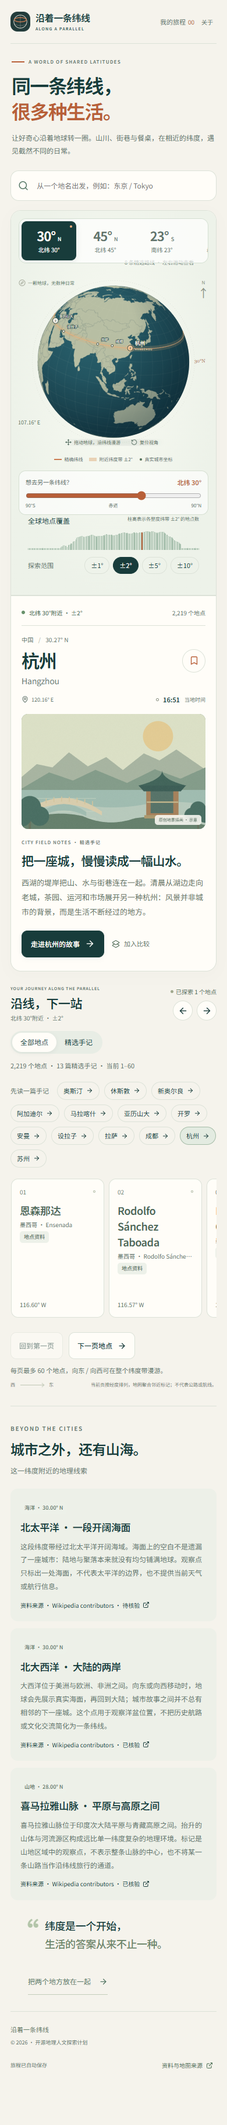
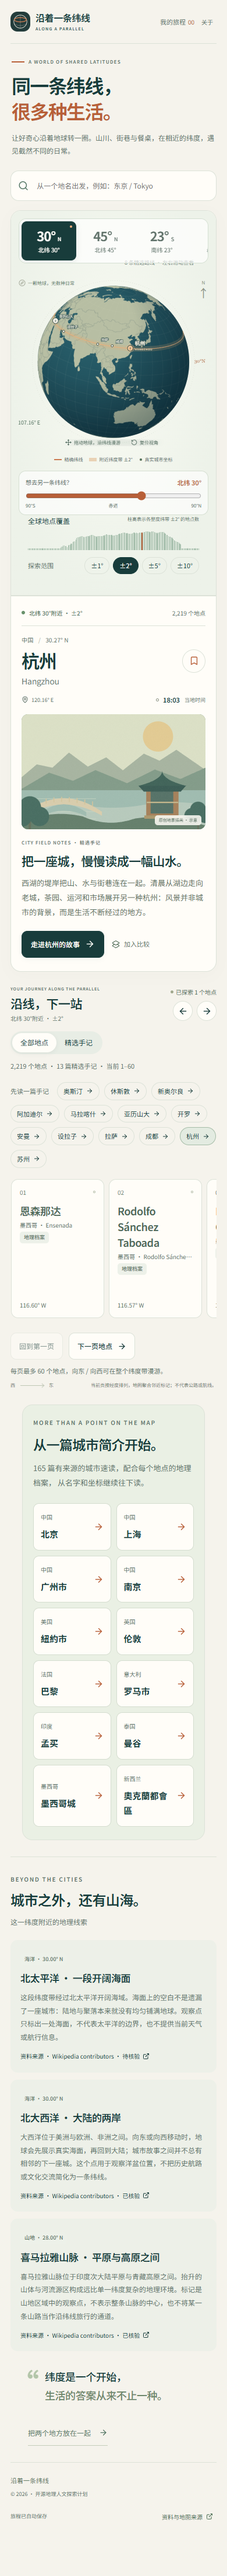
Document V2.1 release verification and refresh live screenshots

diff --git a/docs/VERIFICATION.md b/docs/VERIFICATION.md
@@ -1,5 +1,30 @@
 # 验证记录
 
+## V2.1 线上发布（2026-11-13）
+
+已将源码提交 `2db298134941741b50c0b67f44c880d14f2a700a` 部署到原 [公开试用站](https://parallel-6a30a9330b.sealoshzh.site/)，本轮线上验收通过。后续文档与截图提交独立保留，运行镜像仍固定到此源码版本。
+
+- [Checks 43404464901](https://github.com/Sep1stZ/along-a-parallel/actions/runs/43404464901) 成功：33 项测试与 21 项浏览器测试通过；本地 TypeScript、ESLint、全项目 Prettier 和 Next.js 生产构建也通过。本地生产服务在 Node 堆 160 MiB 下另跑完整浏览器测试，21/21 通过（1.6 分钟）。
+- [Container 43404464836](https://github.com/Sep1stZ/along-a-parallel/actions/runs/43404464836) 成功：生产镜像构建、资源受限容器验证及发布完成。实际按 0.2 CPU、256 MiB 内存、Node 堆 160 MiB 运行，初次导入峰值 **178.2 MiB**，重启峰值 **117.6 MiB**，替换后峰值 **117.1 MiB**，未发生 OOM。
+- 已匿名核验固定镜像 `ghcr.io/sep1stz/along-a-parallel@sha256:890ed23ebba13e588dfd1665ee1167eaa85599c8f14579f5a5f28dfda3dd98d0`：Linux amd64、非 root `node` 用户，11 个数据层 HEAD 均返回 200。
+- 部署沿用同一 StatefulSet 与原 PVC，没有改用新数据库卷。部署后实例 **Ready=true、重启计数 0**；旧 V2 测试所有者的收藏、私人旅程和已撤销分享的 410 状态均保留。
+- 发布前已取得包含 WAL 已提交状态的 SQLite 一致性备份，完整性检查为 `ok`。私人备份仅在受控本地保存，不随仓库、源码包或镜像发布。
+- 线上 API 与持久化 **36 项检查通过**：HTTPS、字体哈希、全部地理档案与速读数量、真实正文与固定修订许可、分页、会话隔离、同源防护、冻结快照和撤销 410。新分享保留完整速读及地理档案；再次真实替换 V2.1 实例后，收藏、私人旅程和冻结快照相同，所有者仍能撤销分享，原 PVC 不变，最终实例 Ready、重启计数 0。
+
+- 对公开 HTTPS 站完整运行生产浏览器测试，**21/21 通过（3.7 分钟）**。阻止所有第三方网络请求，覆盖原有 60 城的手机阅读、新速读与附近地点跳转、基础城市比较、二维拖动松手稳定、取消恢复，以及收藏、导入导出、分享和失败重试。
+- 生产更新前后的一致性备份逐行对照通过：119 个旧会话、15 条收藏、8 份旧分享原 JSON、298 条探索和 73 份私人旅程均保留，本轮未发现这些旧记录的较新修改。更新后数据库完整性与外键检查通过；私人备份与访问凭据不随交付发布。
+- 实际线上截图已更新：[桌面](screenshots/desktop.png)、[手机](screenshots/mobile.png)、[城市速读](screenshots/city-reader.png)、[手机地理档案](screenshots/mobile-profile.png)、[基础城市比较](screenshots/comparison.png)。1440/1024/390px 均无横向溢出、本地字体实际加载，额外验证分享展开后有完整速读与许可链接，页面错误为 0。
+
+本轮保留 34,214 个地点、60 座精选城市、240 篇四主题原创手记、8 条路线与 30 条自然观察。全部地点增加地理档案、三个真实近邻与三个精选阅读入口；新增 **165 篇、330 段**中文城市速读，覆盖 **57 个国家/地区代码**。165 篇与 60 座精选有重叠，不能相加作为不同城市数。
+
+165 篇已逐项核对实际取得的来源标题、固定修订和原始响应 SHA-256；不带原始缓存的隔离重建与发表 JSON 逐字节一致。全部地点的地理档案、近邻及精选入口通过检查；跨 180° 经线、极区与随机全球位置的球面 KD 树结果与全量距离计算交叉验证通过。百科导言及其改编独立采用 **CC BY-SA 4.0**，地理数据继续为 **CC BY 4.0**，不改授项目 MIT。旧城市 19 项来源、自然观察 6 项来源仍保留待核验标记，百科本身的全部引文也未被逐项独立复核。详见 [内容边界](CITY-ARTICLES.md)。
+
+地球改为 Canvas 底图、SVG 交互标记及 `requestAnimationFrame` 合并拖动绘制。在相同本地生产场景、4 倍 CPU 限速下各测三轮，帧间隔 p95 的中位数由 **62.5 ms 降至 41.6 ms，降低约 33%**。该指标是主线程动画帧机会的间隔，不是屏幕实际出光延迟或物理 FPS，不能推断所有设备均达到 60 FPS。实测范围与原始证据见 [性能记录](PERFORMANCE.md)。
+
+当前本地字体为 3,447 个 Unicode 映射、837,616 字节；67 项本地素材的来源、独立许可、大小与 SHA-256 已核验。运行时仍不依赖外部字体或数据 CDN。试用资源、余额、临时域名与网络可达性边界沿用下方说明，未购买或升级规格。
+
+以下保留 V2 与 V1 历史验证，不将其测试数量或通过结果计入本轮线上最终验收。
+
 ## V2 线上发布（2026-11-11）
 
 已更新 [公开试用站](https://parallel-6a30a9330b.sealoshzh.site/)，最终运行代码提交 `2f5735ed5ccc87ec18e4cc31e5b77cbf36ecce56`。

diff --git a/docs/DEPLOYMENT.md b/docs/DEPLOYMENT.md
@@ -4,6 +4,26 @@ GitHub 保存代码。公开网站还需要托管运行服务。可以使用有 
 
 ## 当前交付状态
 
+**V2.1 已于 2026-11-13 更新到原公开地址：[沿着一条纬线](https://parallel-6a30a9330b.sealoshzh.site/)，线上验收通过。** 运行源码提交为 `2db298134941741b50c0b67f44c880d14f2a700a`，固定镜像为：
+
+```text
+ghcr.io/sep1stz/along-a-parallel@sha256:890ed23ebba13e588dfd1665ee1167eaa85599c8f14579f5a5f28dfda3dd98d0
+```
+
+[Checks 43404464901](https://github.com/Sep1stZ/along-a-parallel/actions/runs/43404464901) 成功，33 项测试和 21 项浏览器测试通过；[Container 43404464836](https://github.com/Sep1stZ/along-a-parallel/actions/runs/43404464836) 成功完成构建、真实资源受限容器验证与 GHCR 发布。该镜像已匿名核验为 Linux amd64、非 root `node` 用户，11 个数据层 HEAD 均为 200。
+
+在 0.2 CPU、256 MiB 内存、Node 堆 160 MiB 条件下，本轮实测初次导入峰值 178.2 MiB、重启峰值 117.6 MiB、替换后峰值 117.1 MiB，无 OOM。线上部署沿用原 StatefulSet 与原 PVC，实例 Ready=true、重启计数 0；旧 V2 测试所有者的收藏、旅程和已撤销分享 410 状态保留。发布前 SQLite WAL 一致性备份完整性检查为 `ok`，备份仅在受控本地私存。
+
+线上 36 项 API 与持久化检查，以及 21 项完整生产浏览器测试全部通过。再次真实替换 V2.1 实例后，新分享中的速读与地理档案、收藏和私人旅程保留，撤销功能有效，原 PVC 不变，实例 Ready、重启计数 0。范围及证据见 [验证记录](VERIFICATION.md)。后续文档与截图提交不会改变此处固定的运行版本。
+
+V2.1 保留 34,214 个地点、60 城 240 篇四主题手记、8 条路线与 30 条自然观察，增加全部地点的地理档案及 165 篇、330 段城市速读（57 个国家/地区代码）。速读与精选城市有重叠，百科节选及其文字整理采用独立的 CC BY-SA 4.0；原地理数据继续采用 CC BY 4.0。原来源待核验边界见 [内容说明](CITY-ARTICLES.md) 和 `SOURCES.md`。
+
+地球采用 Canvas 底图、SVG 交互标记与动画帧合并绘制；相同本地场景、4 倍 CPU 限速下三轮帧间隔 p95 中位数降低约 33%。该结果不等于物理 FPS 或所有设备的性能保证，详见 [性能记录](PERFORMANCE.md)。
+
+资源仍为原试用站的单实例 200m CPU、256Mi 内存和 1Gi 持久卷，未购买、充值或升级。示例配置已固定本轮验证镜像；临时系统域名、平台余额与实际网络访问仍影响可用性。以下 V2、V1 记录保留作历史追溯。
+
+## V2 历史部署记录（2026-11-11）
+
 **V2 已于 2026-11-11 更新到原公开地址：[沿着一条纬线](https://parallel-6a30a9330b.sealoshzh.site/)。** 当前收录 34,214 个地点、60 座精选城市、8 条路线与 30 条自然观察，沿用原 200m CPU、256Mi 内存和 1Gi 持久卷。
 
 [Container 42989875070](https://github.com/Sep1stZ/along-a-parallel/actions/runs/42989875070) 已完成生产构建、同规格小内存容器 smoke 和 GHCR 发布；[Checks 42989874995](https://github.com/Sep1stZ/along-a-parallel/actions/runs/42989874995) 也成功。线上验收及实例替换的数据保留证据见[验证记录](VERIFICATION.md)。
